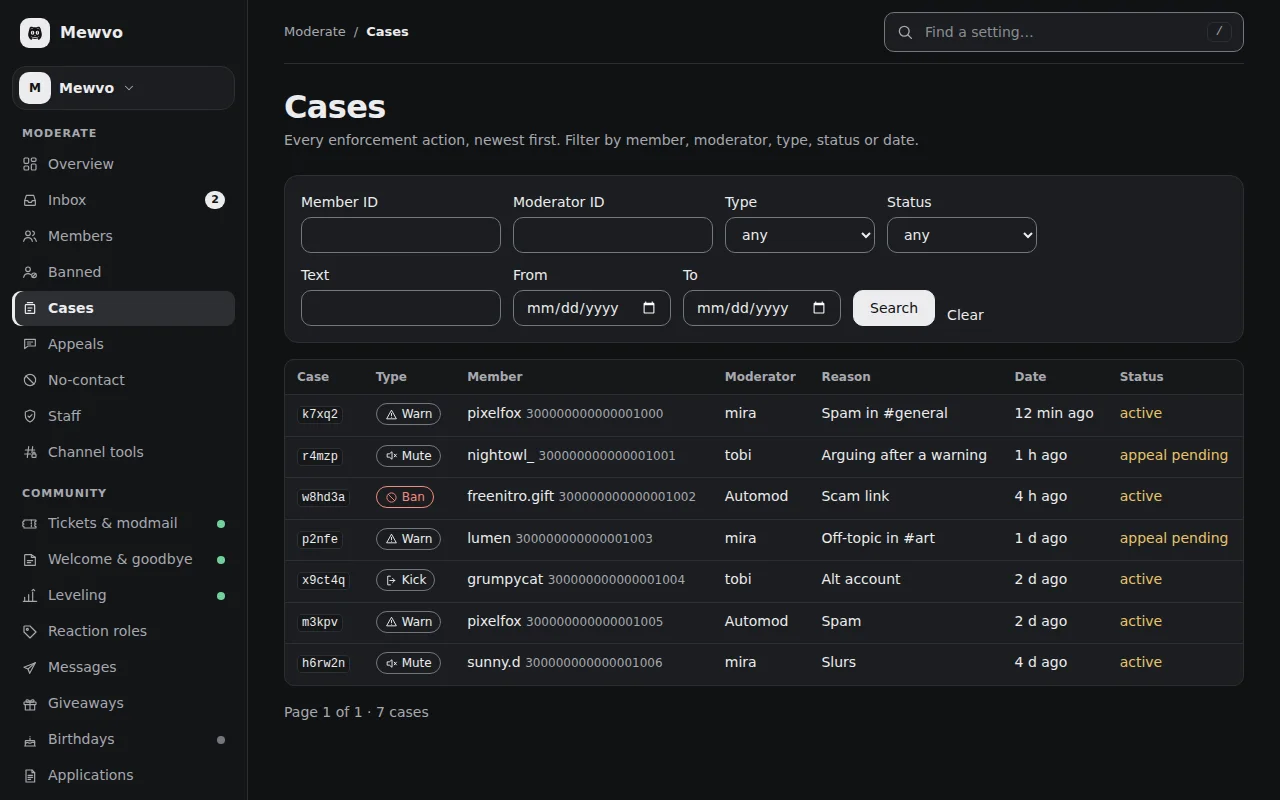
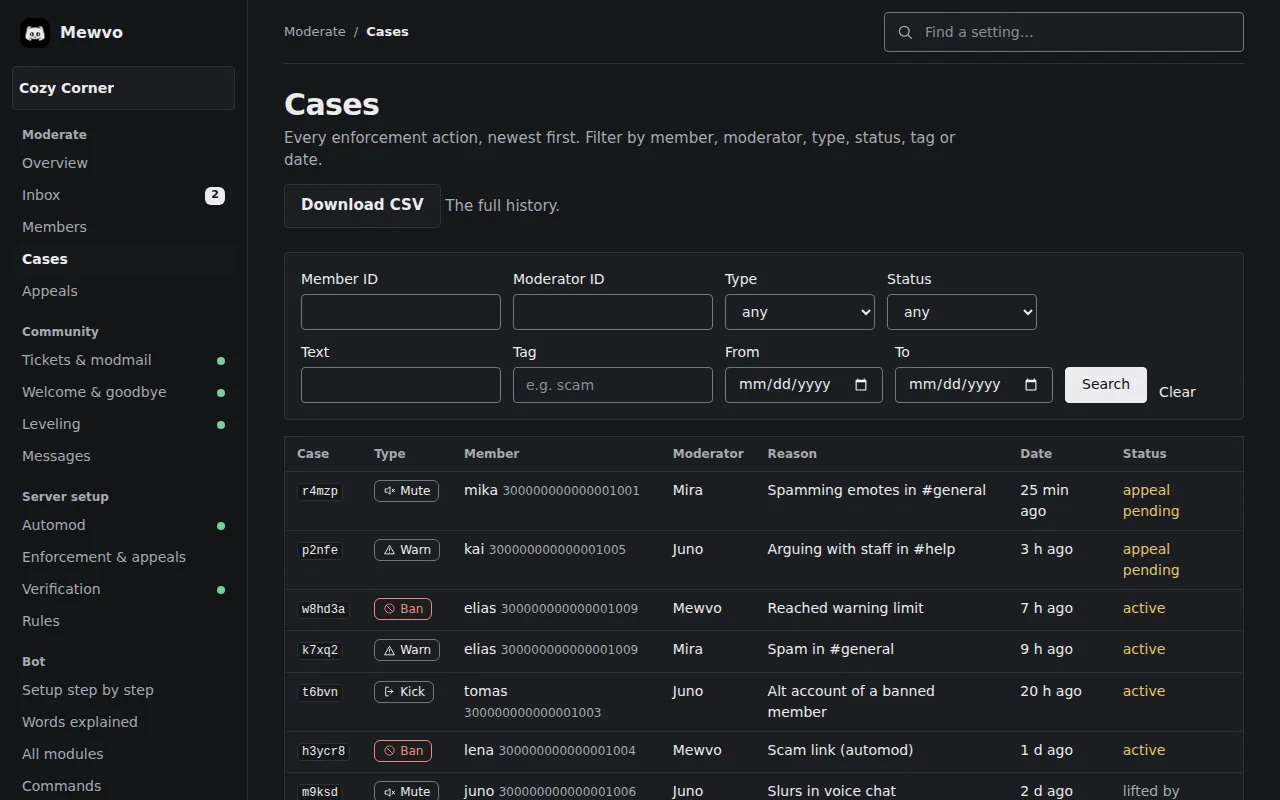
Website: new dashboard screenshots and share image; screenshot script
Overview and Cases (dark + light, 1280x800 WebP) retaken from the current dashboard
with made-up data (Cozy Corner); og.png redrawn in the current dark site look.
scripts/dashboard-screenshots.js mounts createDashboard on 127.0.0.1 with fake data
(no Discord login, no database) and takes the shots with the headless shell.

diff --git a/scripts/dashboard-screenshots.js b/scripts/dashboard-screenshots.js
@@ -1,0 +1,293 @@
+// dashboard-screenshots.js — retakes the website's dashboard screenshots and the share image
+// from the CURRENT dashboard and site code, with made-up data ("Cozy Corner").
+//
+//   node scripts/dashboard-screenshots.js                 → writes src/services/site/static/img/
+//        screen-overview-{dark,light}.webp, screen-cases-{dark,light}.webp (1280×800) and og.png (1200×630)
+//   node scripts/dashboard-screenshots.js --serve         only start the preview (dark :5055, light :5056)
+//        and keep it running; open http://127.0.0.1:5055/dashboard/overview or /og. Ctrl+C stops it.
+//   node scripts/dashboard-screenshots.js --chrome <path> a different Chromium / headless shell binary
+//
+// How: createDashboard() is mounted on a bare Express app on 127.0.0.1 with fake data and
+// fake services injected; a middleware adds a signed session cookie (an Administrator) and
+// the theme cookie. The Discord client is a plain object: nothing logs in to Discord, and
+// no database is used (every DB URL is removed from the environment before the app code
+// is imported, so a stray query fails instead of reaching a real database). Screenshots are
+// taken with the headless Chromium shell that Playwright installed, on 127.0.0.1 only, and
+// encoded to WebP with @napi-rs/canvas. Run on Node 22 (`nvm use`).
+
+import { execFile } from 'node:child_process';
+import { promisify } from 'node:util';
+import { mkdtempSync, readFileSync, readdirSync, rmSync, statSync, writeFileSync } from 'node:fs';
+import { homedir, tmpdir } from 'node:os';
+import path from 'node:path';
+import { fileURLToPath } from 'node:url';
+
+const ROOT = path.resolve(path.dirname(fileURLToPath(import.meta.url)), '..');
+const IMG_DIR = path.join(ROOT, 'src/services/site/static/img');
+const HOST = '127.0.0.1';
+const PORTS = { dark: 5055, light: 5056 };
+const ORIGIN = (theme) => `http://${HOST}:${PORTS[theme]}`;
+
+// ── a safe, fake environment (before any app module is imported) ───────────
+// No DB: drop every connection string, so nothing can reach a real database.
+for (const key of Object.keys(process.env)) {
+    if (/(^|_)(DATABASE|POSTGRES|PG)(_|$)|_URL$|TOKEN|SECRET|^PG/.test(key)) delete process.env[key];
+}
+const GUILD = '100000000000000001';
+const SUPPORT = '100000000000000002';
+const ADMIN = '200000000000000001';
+const CH = { general: '500000000000000001', modlog: '500000000000000002', review: '500000000000000003', alerts: '500000000000000004', tickets: '500000000000000005', welcome: '500000000000000006', appeals: '500000000000000007' };
+const ROLE = { muted: '600000000000000001', staff: '600000000000000002', banned: '600000000000000003', member: '600000000000000004' };
+Object.assign(process.env, {
+    NODE_ENV: 'development', LOG_LEVEL: 'warn',
+    DASHBOARD_ENABLED: 'true', DASHBOARD_EDIT_ENABLED: 'false', SESSION_SECRET: 'preview-only-'.padEnd(64, 'x'),
+    CLIENT_ID: '400000000000000001', DISCORD_CLIENT_SECRET: 'preview-only', PUBLIC_URL: ORIGIN('dark'),
+    MAIN_GUILD_ID: GUILD, SUPPORT_GUILD_ID: SUPPORT, OWNER_IDS: '',
+    MOD_LOG_CHANNEL_ID: CH.modlog, AUTOMOD_REVIEW_CHANNEL_ID: CH.review, BOT_ALERTS_CHANNEL_ID: CH.alerts, MUTED_ROLE_ID: ROLE.muted,
+    MAIN_APPEALS_CATEGORY_ID: CH.appeals, BANNED_ROLE_ID: ROLE.banned,
+});
+function refuseRemoteDb() {
+    for (const [key, value] of Object.entries(process.env)) {
+        if (!/postgres(ql)?:\/\//i.test(String(value))) continue;
+        const host = (() => { try { return new URL(value).hostname; } catch { return ''; } })();
+        if (!['localhost', '127.0.0.1', '::1'].includes(host)) throw new Error(`Refusing to run: ${key} points at a non-local database.`);
+    }
+}
+refuseRemoteDb();
+
+const express = (await import('express')).default;
+const { createDashboard, dashboardRouter, dashboardSettings } = await import('../src/services/dashboard/routes.js');
+const { createMemorySessionStore } = await import('../src/services/dashboard/sessionStore.js');
+const { createAccessChecker } = await import('../src/services/dashboard/access.js');
+const { defaultServices } = await import('../src/services/dashboard/services.js');
+const { SESSION_COOKIE, signValue } = await import('../src/services/dashboard/security.js');
+const { THEME_COOKIE } = await import('../src/services/dashboard/html.js');
+const { warnDmMock } = await import('../src/services/site/pages/mockups.js');
+const { createCanvas, loadImage } = await import('@napi-rs/canvas');
+refuseRemoteDb();
+
+// ── made-up data ───────────────────────────────────────────────────────────
+const NOW = Date.now();
+const MIN = 60_000;
+const HOUR = 60 * MIN;
+const DAY = 24 * HOUR;
+const ago = (ms) => new Date(NOW - ms);
+const userId = (n) => `30000000000000${String(1000 + n).padStart(4, '0')}`;
+const MEMBERS = ['Ari', 'Mika', 'Noor', 'Tomas', 'Lena', 'Kai', 'Juno', 'Sasha', 'Robin', 'Elias', 'Ivy', 'Dana'];
+const MODS = { juno: 'Juno', mira: 'Mira', mewvo: 'Mewvo' };
+
+// Case codes: 5–7 characters from the alphabet without look-alikes (no 0 o 1 l i).
+const CASES = [
+    ['r4mzp', 'mute', 1, MODS.mira, 'Spamming emotes in #general', 25 * MIN, { status: 'appeal_pending', expires: 6 * HOUR }],
+    ['p2nfe', 'warn', 5, MODS.juno, 'Arguing with staff in #help', 3 * HOUR, { status: 'appeal_pending' }],
+    ['w8hd3a', 'ban', 9, MODS.mewvo, 'Reached warning limit', 7 * HOUR, { expires: 7 * DAY }],
+    ['k7xq2', 'warn', 9, MODS.mira, 'Spam in #general', 9 * HOUR],
+    ['t6bvn', 'kick', 3, MODS.juno, 'Alt account of a banned member', 20 * HOUR],
+    ['h3ycr8', 'ban', 4, MODS.mewvo, 'Scam link (automod)', 1 * DAY + 2 * HOUR],
+    ['m9ksd', 'mute', 6, MODS.juno, 'Slurs in voice chat', 2 * DAY, { status: 'revoked', revoke: 'Appeal accepted' }],
+    ['v5ajx', 'warn', 1, MODS.mira, 'Off-topic after two reminders', 2 * DAY + 5 * HOUR],
+    ['e2qwu7', 'warn', 7, MODS.mewvo, 'Mass mentions (automod)', 3 * DAY],
+    ['f8gzt', 'ban', 10, MODS.juno, 'Raid account', 3 * DAY + 4 * HOUR],
+    ['c4ner', 'mute', 11, MODS.mira, 'Flooding #art with memes', 4 * DAY, { expires: DAY }],
+    ['y7hpm', 'warn', 0, MODS.juno, 'NSFW image in #general', 5 * DAY, { voided: true }],
+    ['d3trk', 'kick', 8, MODS.mira, 'Ignoring a mute', 5 * DAY + 6 * HOUR],
+    ['u6wsb', 'warn', 2, MODS.juno, 'Begging for roles', 6 * DAY],
+];
+const caseRows = CASES.map(([code, type, member, mod, reason, age, extra = {}]) => ({
+    case_code: code, type, guild_id: GUILD, target_user_id: userId(member), target_username: MEMBERS[member].toLowerCase(),
+    moderator_user_id: mod === MODS.mewvo ? '400000000000000001' : userId(mod === MODS.juno ? 20 : 21), moderator_username: mod,
+    reason, created_at: ago(age), status: extra.status || (extra.revoke ? 'revoked' : 'active'), is_test: false,
+    expires_at: extra.expires ? new Date(NOW - age + extra.expires) : null,
+    voided_at: extra.voided ? ago(age - HOUR) : null, revoke_reason: extra.revoke || null,
+}));
+const appeals = [
+    { case_code: 'r4mzp', type: 'mute', username: 'mika', user_id: userId(1), created_at: ago(18 * MIN), is_test: false },
+    { case_code: 'p2nfe', type: 'warn', username: 'kai', user_id: userId(5), created_at: ago(2 * HOUR + 10 * MIN), is_test: false },
+];
+const perDay = (() => {
+    const counts = [3, 5, 2, 6, 4, 1, 3];
+    return Object.fromEntries(counts.map((count, i) => [new Date(NOW - (6 - i) * DAY).toISOString().slice(0, 10), count]));
+})();
+const auditRows = [
+    { id: 3, created_at: ago(40 * MIN), user_id: ADMIN, username: 'mira', module: 'automod', key: 'secondChance', old: false, new: true },
+    { id: 2, created_at: ago(5 * HOUR), user_id: ADMIN, username: 'juno', module: 'leveling', key: 'xpCooldown', old: 60, new: 45 },
+    { id: 1, created_at: ago(1 * DAY + 3 * HOUR), user_id: ADMIN, username: 'mira', module: 'welcome', key: 'welcomeMessage', old: 'Welcome!', new: 'Welcome to Cozy Corner, {user}!' },
+];
+
+// ── fake Discord client (a plain object: it never connects) ────────────────
+function makeGuild() {
+    const guild = { id: GUILD, name: 'Cozy Corner', memberCount: 1284, iconURL: () => null };
+    const ch = (id, name, type = 0, parentId = null) => ({ id, name, type, parentId, rawPosition: 0, guild, toString: () => `<#${id}>` });
+    guild.channels = { cache: new Map([[CH.general, ch(CH.general, 'general')], [CH.modlog, ch(CH.modlog, 'mod-log')], [CH.review, ch(CH.review, 'automod-review')],
+        [CH.alerts, ch(CH.alerts, 'alerts')], [CH.tickets, ch(CH.tickets, 'Tickets', 4)], [CH.welcome, ch(CH.welcome, 'welcome')], [CH.appeals, ch(CH.appeals, 'Appeals', 4)]]) };
+    const role = (id, name, position) => ({ id, name, position, managed: false, permissions: { has: () => false }, guild });
+    guild.roles = { cache: new Map([[GUILD, role(GUILD, '@everyone', 0)], [ROLE.member, role(ROLE.member, 'Member', 1)], [ROLE.muted, role(ROLE.muted, 'Muted', 2)], [ROLE.staff, role(ROLE.staff, 'Staff', 3)]]) };
+    // 1284 members, 37 of them joined this week; about a fifth online.
+    const members = new Map();
+    for (let i = 0; i < guild.memberCount; i += 1) {
+        const id = `31${String(i).padStart(16, '0')}`;
+        members.set(id, { id, joinedTimestamp: NOW - (i < 37 ? (i + 1) * 4 * HOUR : 30 * DAY + i * HOUR), user: { id, username: `member${i}` } });
+    }
+    const presences = new Map([...members.keys()].slice(0, 263).map((id) => [id, { status: 'online' }]));
+    guild.presences = { cache: presences };
+    guild.members = {
+        cache: members, me: { permissionsIn: () => ({ has: () => true }), roles: { highest: { position: 10 } }, permissions: { has: () => true } },
+        fetch: async () => null,
+    };
+    guild.bans = { fetch: async () => new Map() };
+    return guild;
+}
+const guild = makeGuild();
+const client = {
+    user: { id: '400000000000000001', username: 'Mewvo' },
+    isReady: () => true, ws: { ping: 42 },
+    db: { getStatus: () => ({ connectionType: 'postgresql', isDegraded: false }) },
+    guilds: { cache: new Map([[GUILD, guild]]) },
+    users: { cache: new Map(), fetch: async (id) => ({ id, username: 'member', tag: 'member' }) },
+    commands: new Map(),
+};
+
+const guildConfig = {
+    logging: { enabled: true }, ticketCategoryId: CH.tickets, ticketStaffRoleId: ROLE.staff,
+    verification: { enabled: true }, birthdayChannelId: null, leveling: { enabled: true },
+};
+const search = async (guildId, filters = {}, { page = 0, pageSize = 25 } = {}) => {
+    const rows = caseRows.filter((r) => !filters.type || r.type === filters.type);
+    return { rows: rows.slice(page * pageSize, (page + 1) * pageSize), total: rows.length };
+};
+const overview = {
+    getGuildConfig: async () => structuredClone(guildConfig),
+    getWelcomeConfig: async () => ({ enabled: true, channelId: CH.welcome }),
+    countOpenTickets: async () => 3,
+    countActiveSanctions: async () => ({ ban: 4, mute: 1 }),
+    listPendingAppeals: async () => appeals,
+    searchCaseRecords: search,
+    getLockdownState: async () => null,
+    findMutedRole: async () => guild.roles.cache.get(ROLE.muted),
+    casesPerDay: async () => perDay,
+};
+const data = {
+    overview,
+    searchCaseRecords: search,
+    getLatestAppealStatusesForCases: async () => new Map([['c4ner', 'denied']]),
+    guildPlan: () => 'pro',
+    listPendingAppeals: async () => appeals,
+};
+const services = {
+    ...defaultServices,
+    getAutomodSettings: async () => ({ enabled: true }),
+    getJoinToCreateConfiguration: async () => ({ enabled: true }),
+    getApplicationSettings: async () => ({ enabled: false }),
+};
+const inbox = {
+    listPendingAppeals: async () => appeals, listOpenTickets: async () => [], listOpenModmail: async () => [],
+    listOpenReports: async () => [], collectOpenReviews: async () => [],
+};
+const auditStore = {
+    writeRows: async () => 0,
+    list: async () => ({ rows: auditRows, total: auditRows.length }),
+    users: async () => [],
+};
+
+// ── the preview servers (127.0.0.1 only; one per theme) ────────────────────
+async function startServer(theme) {
+    const env = { ...process.env, PUBLIC_URL: ORIGIN(theme) };
+    const settings = dashboardSettings(env);
+    if (!settings.enabled) throw new Error(`Dashboard settings refused: ${settings.problems.join('; ')}`);
+    const sessions = createMemorySessionStore();
+    const access = createAccessChecker(client, { guildId: GUILD, facts: async () => ({ inGuild: true, isAdmin: true, isOwnerId: false }) });
+    const d = createDashboard({ client, settings, sessions, access, data, services, auditStore, env, inbox, inboxBadge: true });
+    const session = await sessions.create({ userId: ADMIN, username: 'mira' });
+    const cookie = `${SESSION_COOKIE}=${encodeURIComponent(signValue(session.id, settings.sessionSecret))}; ${THEME_COOKIE}=${theme}`;
+    const app = express();
+    app.use((req, res, next) => {
+        req.headers.cookie = cookie;
+        req.headers.origin = ORIGIN(theme);
+        next();
+    });
+    app.use('/dashboard', dashboardRouter(d));
+    app.get('/site.css', (req, res) => res.type('css').send(readFileSync(path.join(ROOT, 'src/services/site/static/site.css'))));
+    app.use('/img', express.static(IMG_DIR, { dotfiles: 'allow' }));
+    app.get('/favicon.png', (req, res) => res.sendFile(path.join(IMG_DIR, 'logo.png'), { dotfiles: 'allow' }));
+    app.get('/og', (req, res) => res.type('html').send(ogPage()));
+    return new Promise((resolve, reject) => {
+        const server = app.listen(PORTS[theme], HOST, () => resolve(server)).on('error', reject);
+    });
+}
+
+/** The share image: the site's own look (site.css) with the home page's headline and its warn-DM mock-up. */
+function ogPage() {
+    return `<!doctype html><html lang="en"><head><meta charset="utf-8"><link rel="stylesheet" href="/site.css"><style>
+html, body { margin: 0; width: 1200px; height: 630px; overflow: hidden; background: var(--bg); }
+.og { box-sizing: border-box; width: 1200px; height: 630px; padding: 64px; display: grid; grid-template-columns: 500px 1fr; gap: 48px; align-items: center; }
+.og .brand { font-size: 30px; gap: 14px; margin-bottom: 28px; }
+.og .brand .logo { width: 44px; height: 44px; }
+.og h1 { font-size: 56px; margin: 0 0 24px; max-width: none; }
+.og .lead { font-size: 24px; line-height: 1.4; color: var(--text-muted); margin: 0; }
+.og .mock { width: 100%; }
+.og .dc { font-size: 17px; }
+.og .dc .dc-stamp { white-space: nowrap; }
+</style></head><body><div class="og"><div>
+<p class="brand"><img class="logo" src="/img/logo.png" width="44" height="44" alt=""><span>Mewvo</span></p>
+<h1>A Discord bot for moderation and appeals</h1>
+<p class="lead">Case codes, a warning ladder members can follow, and appeals that reach a person.</p>
+</div><div>${warnDmMock({ supportInvite: 'discord.gg/…' })}</div></div></body></html>`;
+}
+
+// ── screenshots ─────────────────────────────────────────────────────────────
+const run = promisify(execFile);
+
+function chromeBinary() {
+    const at = process.argv.indexOf('--chrome');
+    if (at > -1 && process.argv[at + 1]) return process.argv[at + 1];
+    const base = path.join(homedir(), '.cache/ms-playwright');
+    const dir = readdirSync(base).filter((d) => d.startsWith('chromium_headless_shell-')).sort().pop();
+    if (!dir) throw new Error('No Playwright headless shell found; pass --chrome <path>');
+    return path.join(base, dir, 'chrome-headless-shell-linux64/chrome-headless-shell');
+}
+
+async function screenshot(chrome, url, outFile, width, height) {
+    if (new URL(url).hostname !== HOST) throw new Error(`Screenshots are for ${HOST} only: ${url}`);
+    await run(chrome, ['--no-sandbox', '--hide-scrollbars', '--virtual-time-budget=3000', `--screenshot=${outFile}`, `--window-size=${width},${height}`, url]);
+}
+
+async function toWebp(pngFile, outFile) {
+    const image = await loadImage(readFileSync(pngFile));
+    const canvas = createCanvas(image.width, image.height);
+    canvas.getContext('2d').drawImage(image, 0, 0);
+    writeFileSync(outFile, await canvas.encode('webp', 82));
+}
+
+async function main() {
+    const servers = await Promise.all(Object.keys(PORTS).map(startServer));
+    // Warm the inbox badge (it loads in the background on the first page view).
+    for (const theme of Object.keys(PORTS)) await fetch(`${ORIGIN(theme)}/dashboard/overview`).then((r) => r.text());
+    await new Promise((resolve) => setTimeout(resolve, 300));
+    if (process.argv.includes('--serve')) {
+        console.log(`Preview: ${ORIGIN('dark')}/dashboard/overview (dark), ${ORIGIN('light')}/dashboard/overview (light), ${ORIGIN('dark')}/og`);
+        return;
+    }
+    const chrome = chromeBinary();
+    const work = mkdtempSync(path.join(tmpdir(), 'mewvo-shots-'));
+    try {
+        for (const theme of Object.keys(PORTS)) {
+            for (const page of ['overview', 'cases']) {
+                const png = path.join(work, `${page}-${theme}.png`);
+                await screenshot(chrome, `${ORIGIN(theme)}/dashboard/${page}`, png, 1280, 800);
+                const out = path.join(IMG_DIR, `screen-${page}-${theme}.webp`);
+                await toWebp(png, out);
+                console.log(`${path.relative(ROOT, out)}  ${Math.round(statSync(out).size / 1024)} KB`);
+            }
+        }
+        const og = path.join(IMG_DIR, 'og.png');
+        await screenshot(chrome, `${ORIGIN('dark')}/og`, og, 1200, 630);
+        console.log(`${path.relative(ROOT, og)}  ${Math.round(statSync(og).size / 1024)} KB`);
+    } finally {
+        rmSync(work, { recursive: true, force: true });
+        for (const server of servers) server.close();
+        for (const server of servers) server.closeAllConnections?.();
+    }
+}
+
+await main();
+if (!process.argv.includes('--serve')) process.exit(0);
